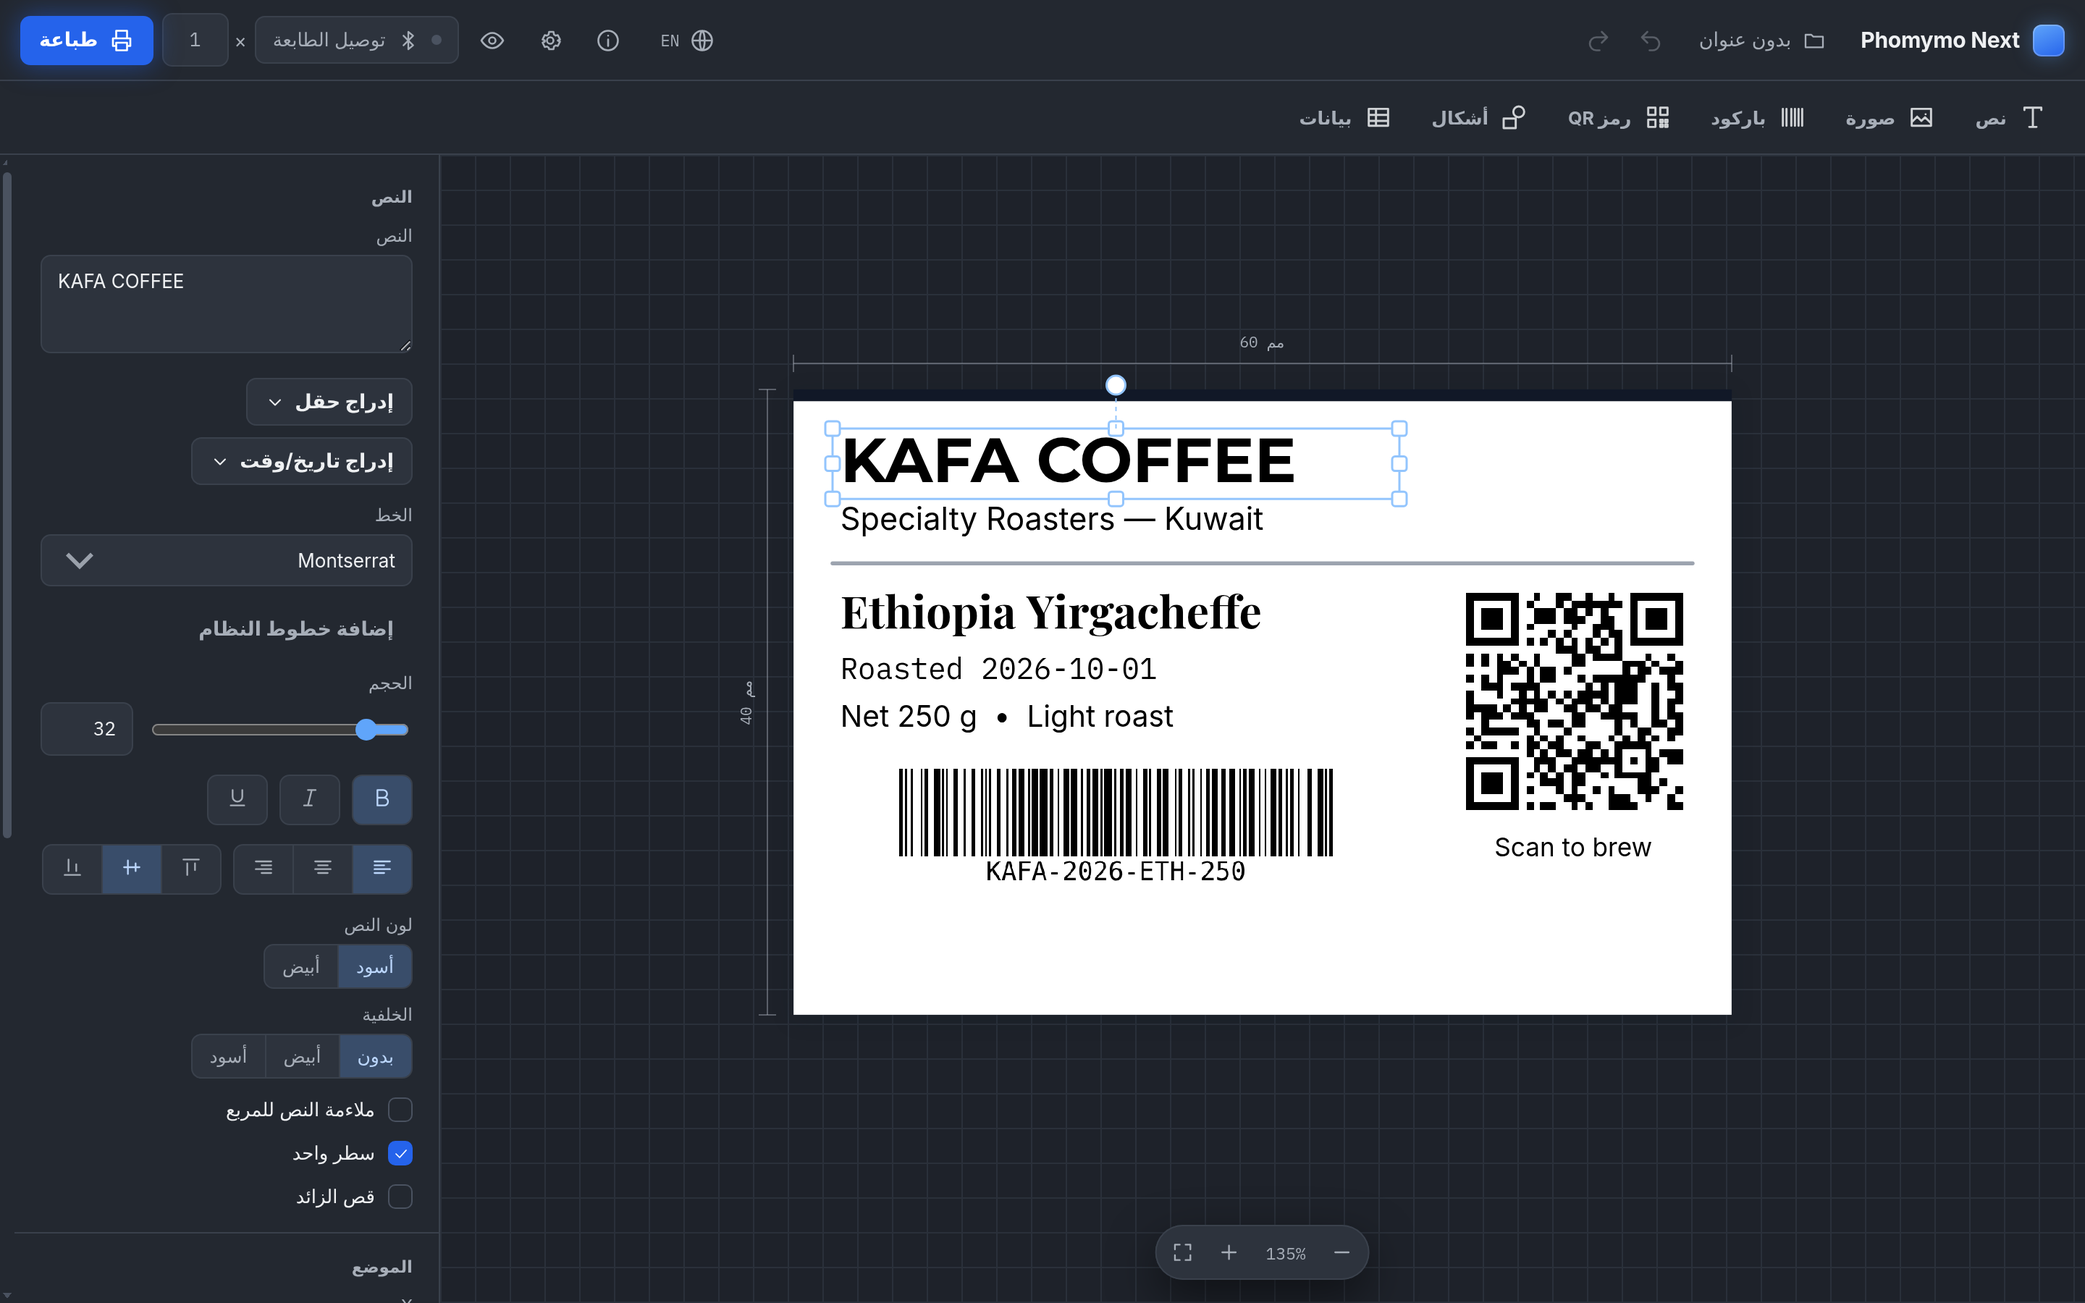
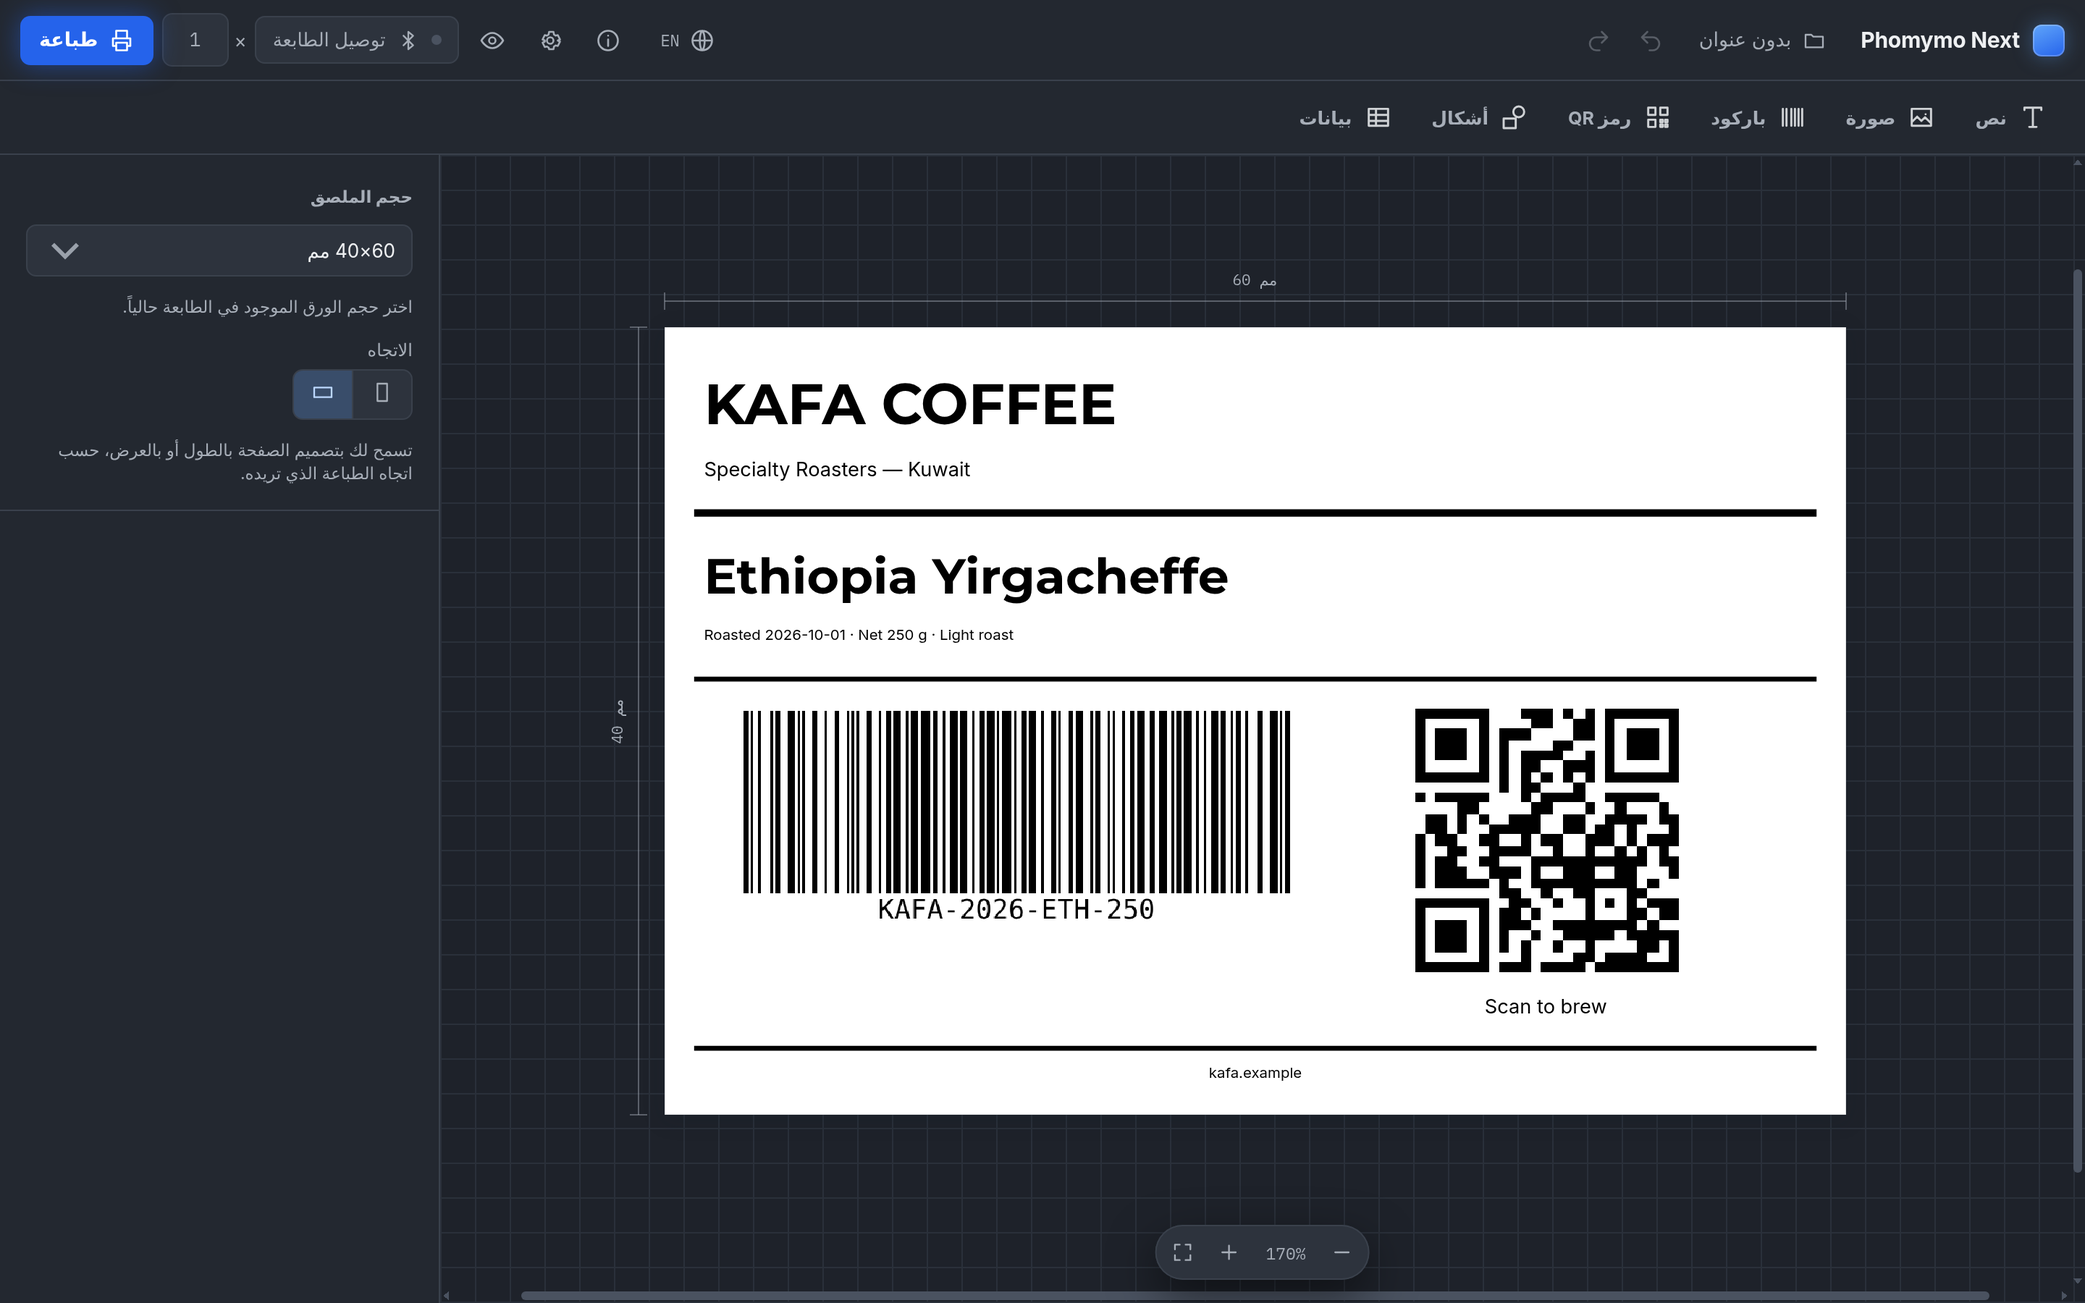
Rewrite the README and recapture the screenshots
README:
- Lead with a centred header, badges (MIT / release / GHCR) and a screenshot
  gallery, so the project explains itself above the fold.
- Add a table of contents and a "What it does" feature list.
- Move Credits and provenance to the end, and state the licence in its own
  section with a link to LICENSE.
- Fold the long orientation explanation into the project-layout section; the
  backward-compatibility note stays, since it is the part that matters.
- Collapse the LAN-access and custom-certificate walkthroughs into
  collapsible sections so the quick start stays readable.

Screenshots: all three were recaptured from the current build so they show the
same real 60x40 mm coffee label (text, rules, CODE128, QR) instead of two
different designs, and so the Arabic shot demonstrates the RTL mirror with
that design intact.

diff --git a/README.md b/README.md
@@ -1,103 +1,131 @@
+<div align="center">
+
 # Phomymo Next
 
-A label designer for Phomemo thermal printers — text, images, barcodes, QR
-codes, shapes, multi-label rolls and CSV/template batch printing — printed
-straight from the browser over Bluetooth or USB. A React + TypeScript
-rewrite with an Arabic/English interface.
+**A label designer for Phomemo thermal printers — in your browser, in Arabic and English.**
 
-![Phomymo Next — the label designer, editing a 60×40 mm product label](docs/screenshots/desktop-en.png)
+[![License: MIT](https://img.shields.io/badge/License-MIT-blue.svg)](LICENSE)
+[![Release](https://img.shields.io/github/v/release/Lojs/phomymo-next?label=Release&color=blue)](https://github.com/Lojs/phomymo-next/releases/latest)
+[![Docker](https://img.shields.io/badge/Docker-ghcr.io-2496ed?logo=docker&logoColor=white)](https://github.com/Lojs/phomymo-next/pkgs/container/phomymo-next)
 
-<p align="center"><sub><i>Phomymo Next editing a 60×40 mm product label</i></sub></p>
+Text, images, barcodes, QR codes, shapes, multi-label rolls, and CSV batch
+printing — designed on screen and printed straight from the browser over
+Bluetooth or USB.
 
-![The same app in Arabic, with a full right-to-left layout](docs/screenshots/desktop-ar.png)
+</div>
 
-<p align="center"><sub><i>The same app in Arabic — the whole interface mirrors to RTL</i></sub></p>
+---
 
-<p align="center">
-  <img src="docs/screenshots/mobile.png" alt="Phone layout" width="260">
-  <br>
-  <sub><i>Phone layout — the inspector becomes a bottom sheet</i></sub>
-</p>
+## Screenshots
 
-## Credits and provenance
+<div align="center">
 
-**This project is inspired by and derived from
-[transcriptionstream/phomymo](https://github.com/transcriptionstream/phomymo)**
-— an excellent browser-based label designer written in plain JavaScript. The
-original established the hard parts: the Phomemo print protocols, the raster
-and dithering pipeline, and the printer definitions. Phomymo Next rebuilds
-that work as a typed, component-based application.
+<img src="docs/screenshots/desktop-en.png" alt="Phomymo Next editing a 60×40 mm product label" width="100%">
 
-What came from the original:
+<sub>Designing a 60×40 mm coffee label — text, rules, a CODE128 barcode and a QR code</sub>
 
-- `src/core/protocols/` and `src/core/printers/` — the print protocol and
-  printer-definition logic, ported to TypeScript.
-- `src/transport/` — Web Bluetooth and WebUSB handling, ported.
-- `tests/legacy/` — a frozen copy of the original implementation, kept so the
-  golden tests can assert that this rewrite produces byte-identical output.
-- `tests/golden-*.test.ts` — 193 of the 255 tests compare against that legacy
-  code directly.
+<br><br>
 
-What is new here: the React component architecture, the TypeScript data model,
-the Arabic/English interface, orientation support, and the Docker/HTTPS
-packaging.
+<img src="docs/screenshots/desktop-ar.png" alt="The same app in Arabic, mirrored to RTL" width="100%">
 
-The original project's README states an MIT licence but ships no `LICENSE`
-file; see [LICENSE](LICENSE) for this project's licence and
-[NOTICE](NOTICE) for the full attribution, including the upstream's own
-protocol research (`vivier/phomemo-tools`, `yaddran/thermal-print`, and
-reverse-engineering by `ooki1jp`).
+<sub>The same design in Arabic — the entire interface mirrors to right-to-left</sub>
 
-If you want the upstream project itself, use
-[transcriptionstream/phomymo](https://github.com/transcriptionstream/phomymo).
+<br><br>
+
+<table>
+<tr>
+<td width="50%"><img src="docs/screenshots/mobile.png" alt="Phone layout" width="260"></td>
+</tr>
+<tr>
+<td align="center"><sub>On a phone the inspector becomes a bottom sheet</sub></td>
+</tr>
+</table>
+
+</div>
+
+---
+
+## Table of contents
+
+- [What it does](#what-it-does)
+- [Requirements](#requirements)
+- [Quick start](#quick-start)
+- [Accessing it from your phone](#accessing-it-from-your-phone)
+- [Commands](#commands)
+- [Where your data lives](#where-your-data-lives)
+- [Local development](#local-development)
+- [Project layout](#project-layout)
+- [Credits and provenance](#credits-and-provenance)
+- [Licence](#licence)
+
+---
+
+## What it does
+
+- **Real label sizes.** 12 preset sizes plus round labels, continuous tape, and
+  any custom size you enter in millimetres. The size you pick is the paper
+  that's actually in the printer — orientation never rewrites it.
+- **Portrait and Landscape** on any rectangular label. Switching rotates your
+  whole design 90° as one piece; nothing is reset.
+- **Print over Bluetooth or USB**, with the paper width, DPI, and alignment
+  taken from the printer model (18 built-in definitions, plus your own).
+- **Batch printing from CSV or a template table** — one design, many records,
+  with fields and expressions like `[[date]]`.
+- **Print preview** that shows images as they will actually dither on paper,
+  while keeping text and barcodes crisp.
+- **Import / export** designs as JSON, PNG, or PDF.
+- **Arabic and English**, with a full right-to-left layout.
+
+---
 
 ## Requirements
 
-Bluetooth and USB printing use the Web Bluetooth / WebUSB APIs, which only
-work in **Chrome or Edge**, and only in a **secure context** — HTTPS, or
-`http://localhost`. That's why the Docker image below serves the app over
-HTTPS by default.
+Bluetooth and USB printing use the Web Bluetooth / WebUSB APIs, which work
+**only in Chrome or Edge**, and **only in a secure context** — HTTPS, or
+`http://localhost`. That is why the Docker image serves the app over HTTPS.
 
-## Run it with Docker (recommended)
+---
 
-### Quick start
+## Quick start
 
 ```sh
-cp .env.example .env        # then edit PHOMYMO_DOMAIN if needed — see below
+cp .env.example .env        # edit PHOMYMO_DOMAIN if you need LAN access
 docker compose up -d --build
 ```
 
-Then open **https://localhost:8444** on this machine, or
-**https://\<this-machine's-LAN-IP\>:8444** from any other device on your
-network (phone, another computer, etc.) — Docker Compose publishes the
-port on all network interfaces by default, so nothing extra is needed for
-LAN access.
+Then open **https://localhost:8444**.
 
-The stack publishes a **single port** (`8444:443`). The app only works in a
-secure context, so there is no plain-HTTP port to redirect from — always use
-`https://` and the `8444` port explicitly.
+The stack publishes a **single port** (`8444:443`). There is no plain-HTTP
+port to redirect from, so always use `https://` and the port explicitly.
 
-### Accessing it from other devices on your network
+---
 
-1. Find this machine's LAN IP (e.g. `192.168.1.50`) — `hostname -I` on
-   Linux, or check your router.
-2. Put that IP in `.env`:
-   ```
+## Accessing it from your phone
+
+Docker Compose publishes the port on all interfaces, so any device on your
+network can reach it — you only need to tell the container which address to
+put in its certificate.
+
+1. Find this machine's LAN IP — `hostname -I` on Linux, or check your router.
+2. Put it in `.env`:
+   ```sh
    PHOMYMO_DOMAIN=192.168.1.50
    ```
-3. `docker compose up -d --build` (or just restart if already running, see
-   below) so the certificate is regenerated for that address.
-4. From another device on the same network, open
-   `https://192.168.1.50:8444`.
+3. Restart so the certificate is regenerated for that address:
+   ```sh
+   docker compose up -d
+   ```
+4. On your phone, open **https://192.168.1.50:8444**.
 
-The container generates a self-signed certificate on first start, so your
-browser will show a security warning — that's expected for a self-signed
-cert; click through it once (usually "Advanced" → "Proceed") and the
-origin counts as secure from then on, which is what Bluetooth/USB
-printing need.
+The container generates a **self-signed certificate** on first start, so your
+browser will warn once — that is expected. Click through it ("Advanced" →
+"Proceed"); the origin counts as secure from then on, which is what Bluetooth
+and USB printing need.
 
-**Using your own certificate instead of the self-signed one:** copy
-`cert.pem` and `key.pem` into the `phomymo-certs` volume, then restart:
+<details>
+<summary>Using your own certificate instead</summary>
+
+Drop `cert.pem` and `key.pem` into the `phomymo-certs` volume and restart:
 
 ```sh
 docker compose cp ./cert.pem phomymo-next:/certs/cert.pem
@@ -105,87 +133,128 @@ docker compose cp ./key.pem  phomymo-next:/certs/key.pem
 docker compose restart
 ```
 
-If both files are already there on startup, the self-signed one is never
+If both files already exist on startup, the self-signed one is never
 generated.
 
-### Commands
+</details>
+
+---
+
+## Commands
 
 | Action | Command |
 |---|---|
 | Build the image | `docker compose build` |
-| Start the container (builds if needed) | `docker compose up -d --build` |
+| Start (builds if needed) | `docker compose up -d --build` |
 | Start without rebuilding | `docker compose up -d` |
-| Stop the container | `docker compose down` |
+| Stop | `docker compose down` |
 | View logs | `docker compose logs -f` |
-| Rebuild after changing source code | `docker compose up -d --build` |
+| Rebuild after changing source | `docker compose up -d --build` |
 | Check it's running | `docker compose ps` |
-| Full reset (also drops the cert volume) | `docker compose down -v` |
+| Full reset (drops the cert volume) | `docker compose down -v` |
 
-### Persistent storage
+---
 
-The **only** thing persisted server-side is the HTTPS certificate
-(`phomymo-certs` volume, mounted at `/certs`), so it survives container
-restarts and rebuilds instead of showing a fresh browser warning every
-time. Everything else — designs, settings, printer memory, template data
-— lives in the browser's `localStorage` on each device that opens the
-app; the server is stateless otherwise, and running `docker compose down`
-(without `-v`) never touches that.
+## Where your data lives
+
+The **only** thing persisted server-side is the HTTPS certificate (the
+`phomymo-certs` volume, mounted at `/certs`), so it survives restarts and
+rebuilds instead of showing a fresh browser warning every time.
+
+Everything else — your designs, settings, printer memory, template data —
+lives in the browser's `localStorage` on each device that opens the app. The
+server is stateless otherwise, so `docker compose down` never touches it.
+
+---
 
 ## Local development
 
 ```sh
 npm install
-npm run dev        # http://localhost:5173 — localhost counts as secure, so BLE/USB work here too
-npm run build       # production build to dist/
+npm run dev         # http://localhost:5173 — localhost counts as secure, so BLE/USB work here too
+npm run build       # production build into dist/
 npm test            # unit + golden tests against the original app's logic
 npm run typecheck
 ```
 
+### Tests
+
+255 tests. Most of them are **golden tests**: they compare this rewrite's
+output byte-for-byte against a frozen copy of the original implementation in
+`tests/legacy/`, so a refactor can't quietly change what reaches the paper.
+
+---
+
 ## Project layout
 
-- `src/core/` — framework-free logic: printer protocols and byte encoders,
-  image rasterisation/dithering, the element/label data model, templates
-  and CSV, label rendering, and orientation (Portrait/Landscape — see
-  below). Fully unit-tested against the original app's behaviour
-  (`tests/golden-*.test.ts`) plus new tests for geometry and orientation.
-- `src/transport/` — Web Bluetooth and WebUSB, ported from the original.
-- `src/state/store.ts` — the app's single Zustand store.
-- `src/services/` — printing orchestration and user actions (add/import/export).
-- `src/ui/` — React components; `src/ui/stage/` is the canvas editor.
-- `src/i18n/` — English and Arabic dictionaries.
-- `docker/` — nginx + HTTPS packaging.
+| Path | What lives there |
+|---|---|
+| `src/core/` | Framework-free logic: print protocols and byte encoders, rasterisation and dithering, the element/label data model, templates and CSV, and orientation. Unit-tested against the original behaviour. |
+| `src/transport/` | Web Bluetooth and WebUSB. |
+| `src/state/store.ts` | The app's single Zustand store. |
+| `src/services/` | Print orchestration and user actions. |
+| `src/ui/` | React components; `src/ui/stage/` is the canvas editor. |
+| `src/i18n/` | English and Arabic dictionaries. |
+| `docker/` | nginx + HTTPS packaging. |
 
-## Orientation (Portrait / Landscape)
+### Orientation, briefly
 
-Rectangular, non-square labels can be designed in Portrait or Landscape.
-The physical label size you pick is never rewritten — orientation only
-changes how the design sits on it:
+`LabelSize.orientation` sits next to `width`/`height`, which always stay the
+literal physical millimetres. **Portrait** always means a tall canvas and
+**Landscape** a wide one, built from the label's actual short and long sides —
+so a 40×30 mm tape and a custom 30×100 mm label both support both
+orientations. Switching rotates the composition as one piece
+(`rotateComposition`), and at print time the artwork is rotated back onto the
+label's physical axes (`rotatePixelsCW`) *before* the protocol pipeline — so
+`widthBytes`, DPI scaling, and printer-specific rotation never learn that
+orientation exists.
 
-- `LabelSize.orientation` (`'portrait' | 'landscape'`) lives next to
-  `width`/`height`, which always stay the literal physical mm values.
-- **Portrait always means the canvas is tall** (width ≤ height) and
-  **Landscape always means wide** (width ≥ height) — true regardless of
-  which physical dimension the label happens to call "width". A 40×30mm
-  tape preset and a custom 30×100mm label both support both orientations,
-  built from the label's actual short/long sides
-  (`resolveOrientation`/`displayLayout` in `core/render/layout.ts`).
-- Switching orientation on a label that already has elements rotates the
-  whole design 90° as one composition (`rotateComposition` in
-  `core/model/elements.ts`) — nothing is reset, element sizes are kept,
-  only positions and each element's own rotation update.
-- At print/preview time, the rendered artwork is rotated back onto the
-  label's physical axes (`rotatePixelsCW` in `core/render/orient.ts`)
-  *before* it reaches the existing protocol/raster pipeline — so
-  `widthBytes`, DPI scaling, and printer-specific rotation (e.g. D-series)
-  are completely unaware orientation exists and needed no changes.
-- Not applicable to round labels, square labels, or multi-label rolls —
-  the control is hidden for those.
+A design saved before this feature has no `orientation` field. Rather than
+defaulting it to "portrait" — which could visually rotate a design that used
+to render wide — `resolveOrientation` infers whichever orientation reproduces
+the label's existing arrangement unchanged, so **old designs keep printing
+exactly as they always did**.
 
-**Backward compatibility:** a design saved before this feature has no
-`orientation` field. Rather than defaulting that to a literal "portrait"
-(which could visually rotate a design that used to render wide),
-`resolveOrientation` *infers* whichever orientation reproduces the
-label's existing width/height arrangement unchanged — so old designs
-keep printing exactly as they always did. Any explicit choice you make
-afterwards is stored and takes over from there.
+---
 
+## Credits and provenance
+
+**This project is inspired by and derived from
+[transcriptionstream/phomymo](https://github.com/transcriptionstream/phomymo)** —
+an excellent browser-based label designer written in plain JavaScript. The
+original established the hard parts: the Phomemo print protocols, the raster
+and dithering pipeline, and the printer definitions. Phomymo Next rebuilds
+that work as a typed, component-based application.
+
+**Ported from the original:**
+
+- `src/core/protocols/` and `src/core/printers/` — the print protocol and
+  printer-definition logic, in TypeScript.
+- `src/transport/` — Web Bluetooth and WebUSB.
+- `tests/legacy/` — a frozen copy of the original, kept so the golden tests can
+  assert byte-identical output.
+- `tests/golden-*.test.ts` — 193 of the 255 tests compare against that legacy
+  code directly.
+
+**New here:** the React component architecture, the TypeScript data model, the
+Arabic/English interface, orientation support, and the Docker/HTTPS packaging.
+
+The upstream README states an MIT licence but ships no `LICENSE` file. See
+[NOTICE](NOTICE) for the full attribution, including the original project's own
+protocol research (`vivier/phomemo-tools`, `yaddran/thermal-print`, and
+reverse-engineering by `ooki1jp`).
+
+If you want the upstream project itself, use
+[transcriptionstream/phomymo](https://github.com/transcriptionstream/phomymo).
+
+---
+
+## Licence
+
+Released under the [MIT Licence](LICENSE).
+
+Copyright © 2026 Mohammed
+
+<p align="center">
+  <sub>Made with patience, in Kuwait.</sub>
+</p>
